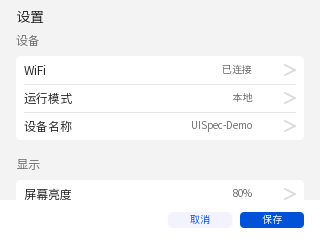
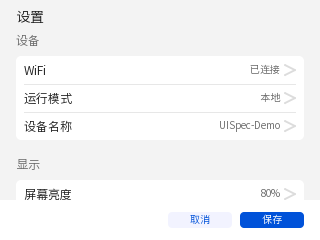
fix(ui_blocks) v0.27.159: 行内「值 → 右端控件」间距按屏比例 + 锚定本行控件
钟工：「320*240 上已连接到右箭头的效果比例不对…为更美观已连接应该靠着箭头，
这个在设计规范或者样式或者基于 AI 原生的 UI 设计上没有考虑这点吗？」

根因（两条）：
- right_edge = 行右缘 − pad_r − (reserve + text_chev_gap) 里的 reserve 是**全页最宽右端控件**
  （如开关 78px）→ 只有箭头的行也按最宽预留，白多留一截死区（320 实测：值右缘 252 →
  箭头左缘 284，间隙 32px = 10% 屏宽）；
- text_chev_gap 是 token 绝对像素（8），**没随屏缩放**。

修：
- 值文本右缘改为**锚定本行实际右端控件**（箭头/开关，两者取更左）左缘 − 间隙；
- 间隙改为 clamp(r4(屏高×0.013), 4, 10)（600→8 / 240→4）；blocks/_tokens.json 新增
  text_chev_gap_min / max / of_h；
- compose.py 新增 assert_row_gaps()：同页行族该间隙必须一致，不一致直接报错退出。

实测（修后）：1024 各行间隙恒 8、320 恒 4（含开关行）；两版 check_all exit 0。

诚实回答：设计规范层面这是真缺口 —— 我们有「同族口径全页统一」的规则，但漏了
「值文本右缘 → 本行右端控件」这条锚定口径；TDesign 的 gap 本来随 rpx→px 缩放，
我们的 token 没做这个换算。

门禁 check_consistency --with-tests 43/43 PASS（用例 430）。

diff --git a/kb_tools.py b/kb_tools.py
@@ -61,7 +61,7 @@ except Exception:
     dss = None
 
 # ========== MCP 版本号（每次发布递增，AI/用户可查询确认是否最新）==========
-MCP_VERSION = '0.27.158-open'
+MCP_VERSION = '0.27.159-open'
 MCP_BUILD = '2026-10-01'
 # compact 模式下每条特性截断长度（v0.27.87）：条目越写越长，不截断就会把默认返回体撑成 token 炸弹
 # （契约用例 test_compact_default 盯 6000 字上限）；完整条目仍能通过 compact=False 拿到。
@@ -76,6 +76,7 @@ def _clip_feature(text, limit=None):
         return s
     return s[:limit] + '…（完整见 compact=False）'
 MCP_FEATURES = [
+    '2026-10-01: **行内「值 → 右端控件」间距修正：按屏比例 + 锚定本行控件（修 320 上「已连接离箭头太远」）** v0.27.159-open（钟工：「320*240 上已连接到右箭头的效果比例不对…为更美观已连接应该靠着箭头，这个在设计规范/样式/AI 原生 UI 设计上没考虑吗」）—— ① **根因（两条）**：`right_edge = 行右缘 − pad_r − (reserve + text_chev_gap)` 里的 `reserve` 是**全页最宽右端控件**（如开关 78px）→ **只有箭头的行也按最宽预留，白多留一截死区**（实测 320 上「已连接」右缘 252 → 箭头左缘 284，**间隙 32px = 10% 屏宽**）；而 `text_chev_gap` 又是 **token 绝对像素（8）**、没随屏缩放。② **修**：值文本右缘改为**锤定本行实际右端控件**（箭头/开关，两者取更左）左缘 − 间隙；间隙改为 **`clamp(r4(屏高×0.013), 4, 10)`**（600→8 / 240→4）；`blocks/_tokens.json` 新增 `text_chev_gap_min/max/of_h`。③ **自检**：`compose.py` 新增 `assert_row_gaps()`——同页行族该间隙必须一致（防「有的行贴箭头、有的行留死区」），不一致直接报错退出。④ **实测（修后）**：1024 各行间隙恒 **8**、320 恒 **4**（含开关行）；两版 `check_all exit 0`；渲染图重生。⑤ 诚实回答：设计规范层面这是**真缺口** —— 我们有「同族口径全页统一」的规则，但漏了「值文本右缘→本行右端控件」这条锚定口径，TDesign 的 `gap` 本来随 rpx→px 缩放，我们的 token 没做这个换算。v0.27.159-open',
     '2026-10-01: **修「白框底色与文本列表区错位」（容器子节点用绝对坐标 → 父子双计）+ compose 自检** v0.27.158-open（钟工：「白框底色和文本列表区域错位了…之前好像出现过这个问题」）—— ① **根因**：`build_card` 里卡底图节点 `CardBg<N>` 传的是**卡片的绝对 x/y**（`self.box(x, y, cw, ch_)`），而它是 `Card<N>` window 的**子节点**（子节点坐标是相对父容器的）→ **父子双计** → 白卡底色整体右下各偏一个 margin（实测 1024 版偏移 +16 x / +28 y，992 宽从 x=32 起 → 右缘 1024 溢出屏外）；同类事故在 SmartPanel 也出现过（卡片底图/装饰件用绝对坐标、白卡盖住圆角）——这是「错位」这类问题的通用根因。② **顺带**：行间分割线宽 `cw - pad_l` → 右端贴边（不对称），改 `cw - 2*pad_l`（左右各内缩 pad_l）。③ **防复发**：`compose.py` 新增 `assert_children_fit()`（容器子节点盒必须落在容器盒内）并在 build_card 末尾断言 —— 同类「绝对坐标当子节点坐标」当场报错退出、不出产物。④ **实测**：修后 `CardBg1` 与 `Card1` **同盒**（16,104 992×180）、`RowSep2` = 32..992 对称；两版示例 `check_all exit 0`。v0.27.158-open',
     '2026-10-01: **修「产物 caption 唯一性」缺陷（生成的回调重定义 → C++ 编译不过）+ check_all 新增 #30** v0.27.157-open（我按钟工要求复核块库产物时发现）—— ① **缺陷**：块库/组装器生成的 caption **跨卡重复**（`_name` 按卡内序号、每卡重置）→ `ui/main.json` 里 `ButtonRowSettingRow1` / `ImageRowSettingRow1Chevron` / `TextRowSettingRow1Label`/`Value` / `RowSep1` 等 **13 个值重名** → `mainLogic.cc` 里 `onButtonClick_ButtonRowSettingRow1` **定义两次**（行 45/57）⇒ **编译必失败**。② **为什么一路 PASS**：`check_all` #5 只查「回调**是否存在**」、**不查唯一**（判据缺口）。③ **修**：组装器命名改**全页全局递增 + 按块类型前缀**（`SettingRow4`/`IconRow7`/`ToggleRow6`/`DeviceCard9`/`Card5`/`SectionHeader10`，子控件继承父序号、`RowSep<上文序号>`），并在**出产物前自检**（重名直接报错退出、`ui/main.json` 不落地）+ `emit_logic` 二道闸；`ui_tools/check_all.py` 新增 **#30 caption 唯一性**（同 json 内 caption ≥2 次 → FAIL，逐条列「页面 / caption / 次数 / 控件 key / 后果」）。④ **实测**：两版示例重生成后 **0 重复 caption / 0 重复回调**、`check_all exit 0` + `[PASS] 1 页 caption 全部唯一`；**反例**（git HEAD 修前那份 json+cc 还原成工程）→ **exit 1 + 5 条 FAIL**（逐条点名重名 caption 与控件）；同页多实例（2 卡+2 空态+2 底栏+2 弹窗）42 控件 0 重复；渲染像素无回归（与修前差集 `bbox=None`）。v0.27.157-open',
     '2026-10-01: **界面块片段库 + 组装器 MVP（`templates/ui_blocks/`）：AI 从「手算坐标」变「选块 + 填值」** v0.27.156-open（钟工：「按照你的建议做」）—— 对标 web 的 Bootstrap/组件库，把设计决策预制：① **10 个块**（`page_title`/`section_header`/`setting_row`/`toggle_row`/`icon_row`/`card`/`device_card`/`empty_state`/`bottom_actions`/`dialog`），每块含字段、**相对约束**（不写死某屏绝对像素）、需要素材与尺寸推导、caption 命名、能否滚动、**禁止项**；② **唯一数值源** `blocks/_tokens.json`（TDesign v1.17.0 令牌 + 定版比例）；③ **组装器** `compose.py`（~1000 行）：`spec.json → ui/<res>/main.json + 切图 + logic 骨架 + 渲染图 + check_all`，**一条命令出全套产物**；④ **两版示例同一套块**（1024×600 基准屏 / 320×240 边界屏）：**两版 `check_all` exit 0 / 0 WARN**、渲染 PNG == resolution、#26 行程与 #27 同族口径全过；⑤ 关键口径：`setting_row` 用**两行式**（单行式是返工第一名）、极小屏整页降单行式禁同页混用、容器/次按钮素面（1px 描边环会让弧线 AA 退化成硬阶梯）、箭头走专属口径自绘、**切图全部走 `gen_res`**；⑥ 自测：1024 版 10 块/7 行/**66 控件**/19 张图，320 版 **59 控件**/15 张图，`json2img --report` 仅 `bold` 一类未支持（渲染器无 Bold 变体，真机由字库承担）；⑦ 用法：`python templates/ui_blocks/compose.py <spec.json> --project <项目根> --render --check`。v0.27.156-open',

diff --git a/templates/ui_blocks/compose.py b/templates/ui_blocks/compose.py
@@ -209,7 +209,9 @@ def build_metrics(W, H, tok):
     m['line_w'] = sh['line_px']
     m['chev_w'] = max(s['chev_w_min'], r4(W * s['chev_w_of_w']))
     m['chev_h'] = max(s['chev_h_min'], r4(H * s['chev_h_of_h']))
-    m['text_chev_gap'] = sp[s['text_chev_gap']]
+    # 文本×右端控件间隙：**按屏高比例 + 上下限**（token 只给基准，避免小屏上绝对像素显得过大）
+    m['text_chev_gap'] = max(s['text_chev_gap_min'],
+                             min(s['text_chev_gap_max'], r4(H * s['text_chev_gap_of_h'])))
     m['text_vpad'] = s['text_vpad']
 
     # 行高：屏高比例 与 文本可读性 取大（SPEC-CHECK §3 B4「可读性优先」）
@@ -559,8 +561,18 @@ class Composer(object):
         # 文本区（全页统一口径：只要页内有任一行带图标，**所有行**都给图标列留位）
         text_left = x0 + (m['icon_left'] + m['icon_bg'] + m['spacer']
                           if getattr(self, 'fam_icon', False) else m['pad_l'])
-        right_edge = x0 + w - m['pad_r'] - (reserve + m['text_chev_gap'] if reserve else 0)
+        # 右端控件左缘 = 本行**实际**有的那个（箭头 / 开关；两者都有取更靠左者）
+        rt_edge = None
+        if reserve and btype != 'toggle_row' and blk.get('chevron', True):
+            rt_edge = x0 + w - m['pad_r'] - m['chev_w']
+        if btype == 'toggle_row':
+            sw_left = x0 + w - m['pad_r'] - r4(m['row_h'] * 1.30)
+            rt_edge = sw_left if rt_edge is None else min(rt_edge, sw_left)
+        # 值文本右缘 = 本行右端控件左缘 − 间隙（旧实现用「全页最宽预留」→ 只有箭头的行多留死区）
+        right_edge = (rt_edge - m['text_chev_gap']) if rt_edge is not None \
+            else (x0 + w - m['pad_r'])
         text_w = right_edge - text_left
+        self.note_row_gaps('TextRow%s' % blk['_name'], right_edge, rt_edge)
         label = blk.get('label') or blk.get('text') or ''
         value = blk.get('value') or ''
         if m['compact'] and blk.get('value_short'):
@@ -634,6 +646,22 @@ class Composer(object):
             row.append(self.button('ButtonRow' + blk['_name'], self.box(x0, y0, w, m['row_h'])))
         parent.extend(row)
         return m['row_h']
+
+    def note_row_gaps(self, caption, right_edge, rt_edge):
+        """记录每行「值文本右缘 → 本行右端控件左缘」的实际间隙，供同页一致性自检。"""
+        if rt_edge is None:
+            return
+        gaps = getattr(self, '_row_gaps', None)
+        if gaps is None:
+            gaps = self._row_gaps = []
+        gaps.append((caption, rt_edge - right_edge))
+
+    def assert_row_gaps(self):
+        """同页行族：上述间隙必须一致（防「有的行贴箭头、有的行留死区」）。"""
+        vals = sorted({g for _c, g in getattr(self, '_row_gaps', [])})
+        if len(vals) > 1:
+            raise SystemExit('[X] 行族「值→右端控件」间隙不一致：%s'
+                             % '；'.join('%s=%d' % (c, g) for c, g in self._row_gaps))
 
     def assert_children_fit(self, win, cw, ch_, where):
         """自检：容器子节点盒必须落在容器盒内（子节点坐标是**相对父容器**的）。
@@ -941,6 +969,7 @@ class Composer(object):
                'touchable': False, 'topmost': False}
         doc.update(body)
         assert_caption_unique(doc, self.page_name)     # 自检：重名 → 报错退出（不出产物）
+        self.assert_row_gaps()                          # 自检：同页行族「值→右端控件」间隙一致
         return doc
 
 

diff --git a/README.md b/README.md
@@ -48,7 +48,7 @@ Kimi → 项目根 `.mcp.json` 或 `.kimi/mcp.json`；Claude Desktop → `claude
 > `python` 不在 PATH 时用完整路径（如 `C:/Users/<你>/AppData/Local/Programs/Python/Python313/python.exe`）。
 
 **3) 验证** —— 问 AI「**MCP 版本是多少？**」：
-应返回 `flythings-kb-open 0.27.158-open`，**43 个工具**（另含 `binTools` 字段：设备端预编译工具 touch / busybox / ui_test / zkshot，
+应返回 `flythings-kb-open 0.27.159-open`，**43 个工具**（另含 `binTools` 字段：设备端预编译工具 touch / busybox / ui_test / zkshot，
 在 `bin_tools/<平台>/` 下，**不是 op、不占 op 名额**）。
 
 > **工具面三模式（按客户端选一个，别同时配）**
@@ -147,6 +147,6 @@ Kimi → 项目根 `.mcp.json` 或 `.kimi/mcp.json`；Claude Desktop → `claude
 
 ---
 
-当前版本 `0.27.158-open`（43 个工具）；工具清单 / 平台矩阵 / 知识规模快照见 `tools_manifest.json`，自检闸门见 `scripts/check_consistency.py --with-tests`。
+当前版本 `0.27.159-open`（43 个工具）；工具清单 / 平台矩阵 / 知识规模快照见 `tools_manifest.json`，自检闸门见 `scripts/check_consistency.py --with-tests`。
 
 MIT License · FlyThings Team · 深圳中科世为科技有限公司 · [developer.flythings.cn](https://developer.flythings.cn/)
